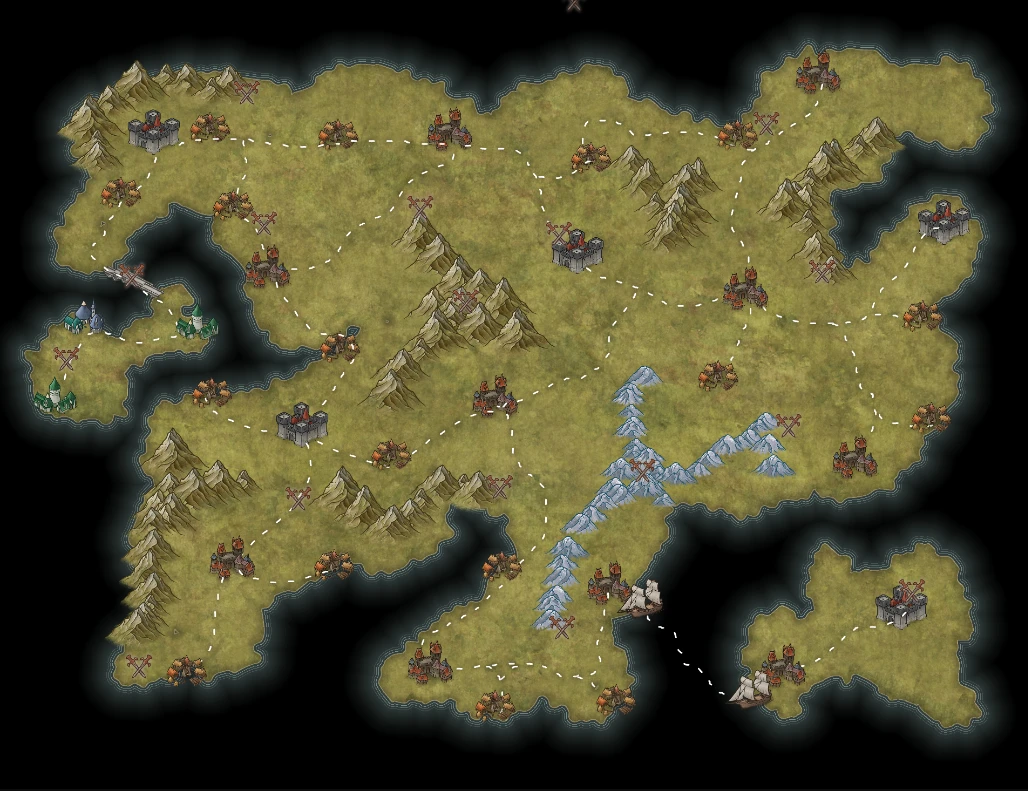
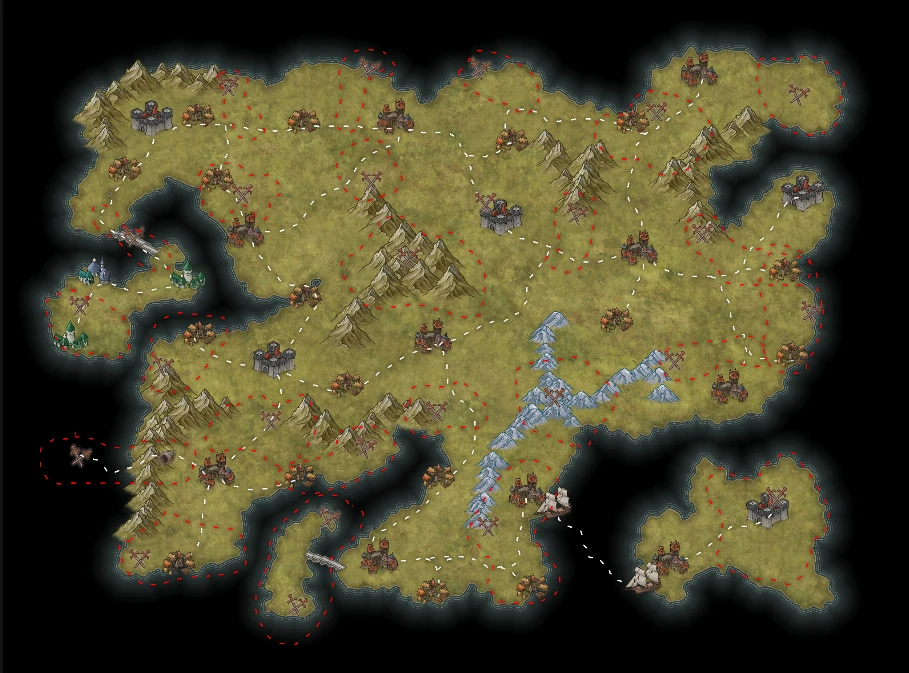
Updated overworld drawing with leak zones (ticket 36)
The developer marked the missing gates and drew each gate's leak zone.
Some gates appear only after story events, a third kind next to known
and hidden gates.

diff --git a/.scratch/hunter-system/issues/36-overworld-layout.md b/.scratch/hunter-system/issues/36-overworld-layout.md
@@ -313,3 +313,16 @@ Still the same count (about 25 gates) and every gate can be reopened harder. Som
 - **Any guild can promote you,** your own or a rival. A rival guild asks more for the same promotion (for example more clears or a harder promotion quest). How much more is a configuration value.
 - Rank is one licence however you earned it: a promotion from a rival counts everywhere.
 - **Full standing with a rival pays 100 %,** the same as your own guild (developer, 2026-11-15). Standing runs from 50 % to 100 %.
+
+**2026-11-15 (agent):** The engine work that follows this layout is written up as tickets 37 to 45: the simulation's ground (37), the overworld as a place (38), the terrain pipeline and a 1 km test patch (39), streaming (40), sending each client only what is near it (41), mounts (42), roaming monsters and bots on real ground (43), a spread-out stress test (44), and the full map (45). All are needs-triage.
+
+**2026-11-15 (developer, recorded by agent):** **Updated drawing** (`docs/maps/overworld-reference.webp`, replacing the first one; the old one is in git history). The developer marked the missing gates and added two things:
+- **Red dashed lines are leak zones:** each outlines how far a gate's leaked monsters reach. As agreed, they run up to town entrances and over roads. Zones are drawn for design; in game they stay invisible (leaks are found by meeting the monsters).
+- **Some gates appear later, through story events.** These do not exist at the start (not merely hidden): a story event opens them, and only then do they leak. So a gate is one of three kinds: known to the guild, hidden until found, or appearing through the story. Which crossed swords are story-appearing gates is to be listed.
+
+New ground on the updated drawing:
+- **A small islet off the far west coast,** reached by a dashed path from a cave on the south-west coast. Read as a walkable shallows path (fits "shallows only"); to confirm.
+- **A small island south of the south-west lobe,** joined by a bridge to the south peninsula, with gates of its own.
+- **More gates along the north coast and in the far north-east.**
+
+Still to settle: which crossed swords are which gate (the region table predates the new marks), and which ones appear through story events.
